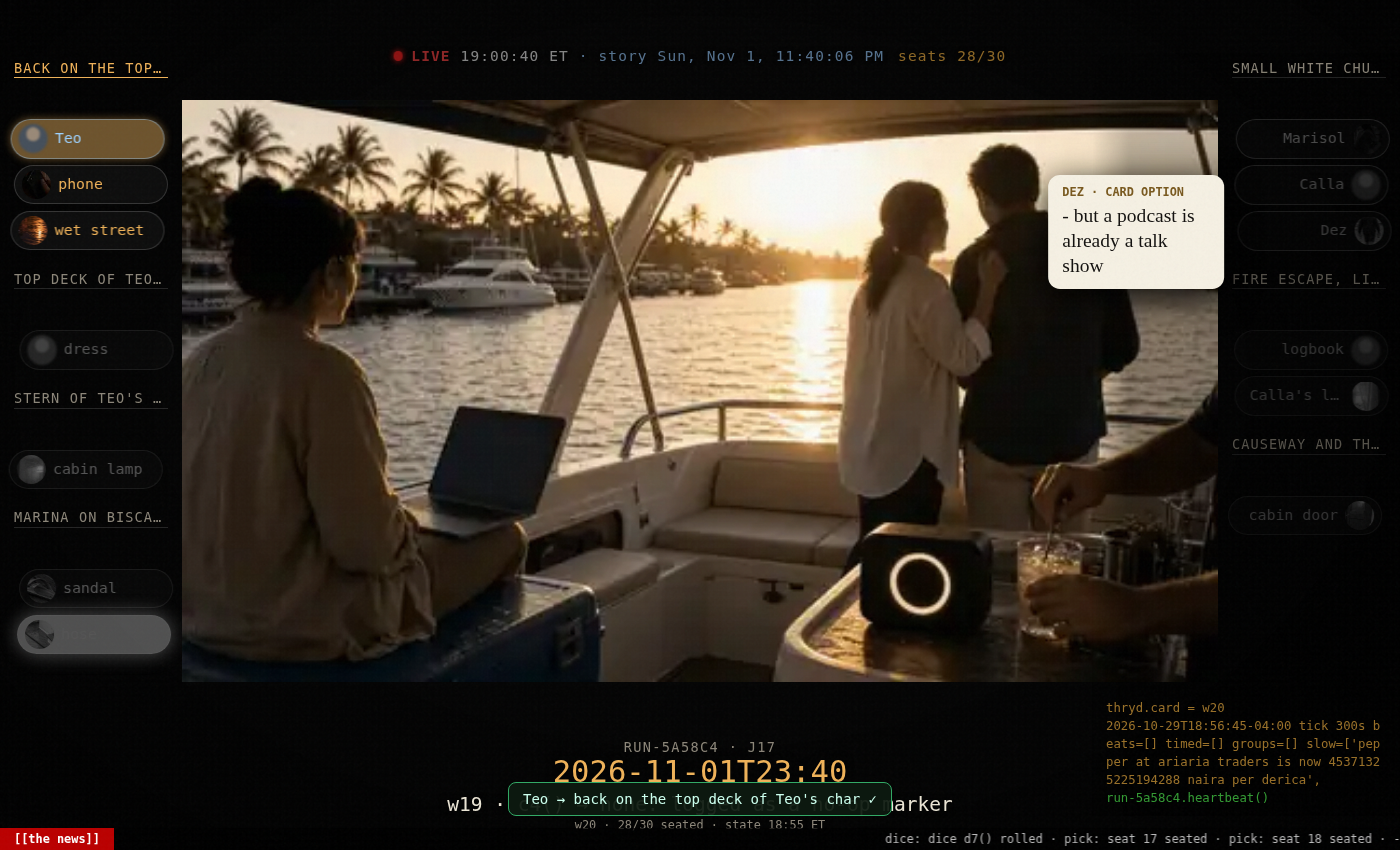
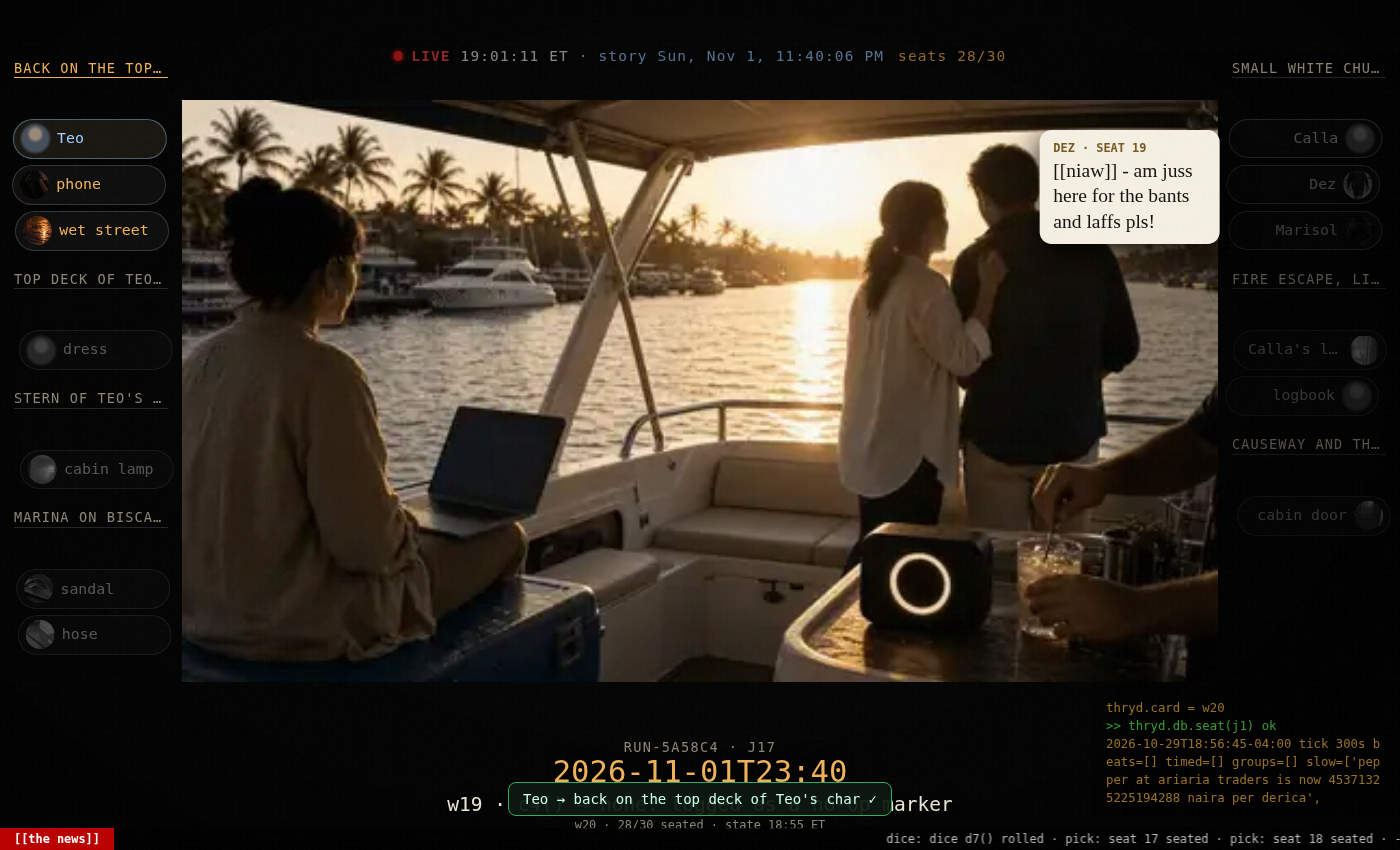
sync 2026-10-29T19:03:24-04:00

diff --git a/assets/projector.js b/assets/projector.js
@@ -54,8 +54,8 @@ function setKey(set){return lookup(set)[0];}
 async function loadOmap(){try{const om=await J('data/objects_map.json');const before=JSON.stringify(Object.keys(OMAP));addOmap(om);
   if(JSON.stringify(Object.keys(OMAP))!==before&&bgSet){objKey=null;objsFor(bgSet);}}catch(e){}}
 async function loadRGifs(){try{(await J('data/replays.json')).runs.forEach(r=>RGIFS[r.run]=r.gifs||[]);}catch(e){}}
-function fitLayer(){if(!objLayer||!objLayer._fs)return;const st=$('stage'),W=st.clientWidth,H=st.clientHeight,[fw,fh]=objLayer._fs,sc=Math.min(W/fw,H/fh);
-  Object.assign(objLayer.style,{width:fw*sc+'px',height:fh*sc+'px',left:(W-fw*sc)/2+'px',top:(H-fh*sc)/2+'px'});}
+function fitLayer(){if(!objLayer||!objLayer._fs)return;const st=$('stage'),W=st.clientWidth,H=st.clientHeight,[fw,fh]=objLayer._fs;
+  Object.assign(objLayer.style,{width:W+'px',height:H+'px',left:'0px',top:'0px'});} // full-bleed: stretched like the scene (object-fit:fill)
 const DPOS=JSON.parse(localStorage.getItem('thryd_dpos')||'{}');
 function objsFor(set){const [k,e0]=set?lookup(set):[null,null]; if(k===objKey&&objLayer)return; objKey=k;
   if(objLayer){const old=objLayer;old.classList.remove('on');setTimeout(()=>old.remove(),2600);objLayer=null;}

diff --git a/index.html b/index.html
@@ -1,5 +1,5 @@
 <!doctype html><html lang="en"><head><meta charset="utf-8"><meta name="viewport" content="width=device-width,initial-scale=1">
-<title>#thryd projector</title><link rel="icon" href="data:,"><link rel="stylesheet" href="assets/projector.css?v=15"><link rel="stylesheet" href="assets/alive.css?v=12"></head>
+<title>#thryd projector</title><link rel="icon" href="data:,"><link rel="stylesheet" href="assets/projector.css?v=16"><link rel="stylesheet" href="assets/alive.css?v=12"></head>
 <body>
 <div id="stage"><img id="bgA" alt=""><img id="bgB" alt=""><div id="ug"></div><div id="cap"></div></div>
 <div id="vignette"></div>
@@ -11,7 +11,7 @@
 <div id="user"></div>
 <div id="ticker"><div class="world" id="world">—</div><div class="upd" id="upd">loading</div><div class="meta" id="meta"></div></div>
 
-<script src="assets/projector.js?v=20"></script>
+<script src="assets/projector.js?v=21"></script>
 <script src="assets/extras.js?v=12"></script>
 <script src="assets/alive.js?v=12"></script>
 </body></html>

diff --git a/assets/projector.css b/assets/projector.css
@@ -79,3 +79,8 @@ body.dragmode .ph{transition:none}
 #objs .dpatch{opacity:0;transition:opacity .4s}#objs .dpatch.away{opacity:1}
 #objs .dob.lifting{cursor:grabbing;z-index:9;filter:drop-shadow(0 10px 14px #000c)}
 #objs .dob .sp{animation:none!important}#objs .dob img{pointer-events:none;-webkit-user-drag:none}
+
+/* full-bleed live scene: stretched to viewport; #objs uses the same box so % layers line up */
+#stage{left:0!important;right:0!important;top:0!important;bottom:0!important;z-index:0}
+#stage img{object-fit:fill!important}
+#vignette{pointer-events:none}
